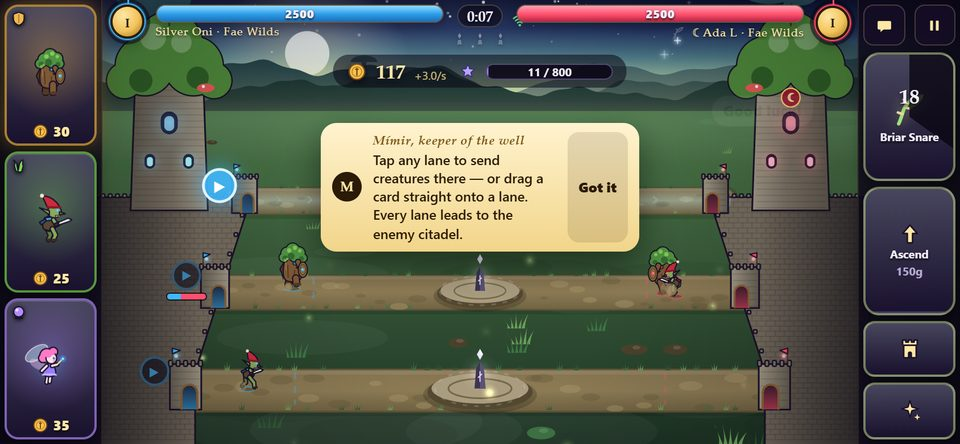
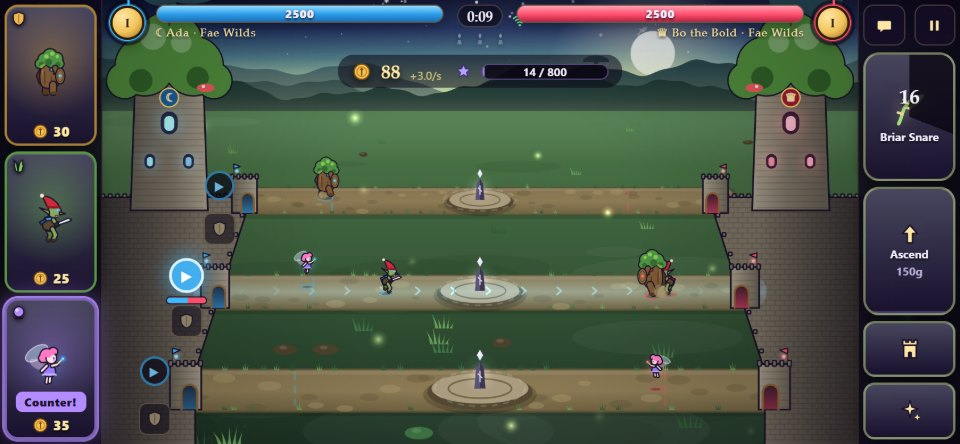
Backlog 187: README's online-battle phone picture re-shot (current HUD, both sigils, creatures; no tip over the field)

diff --git a/scripts/shoot.ts b/scripts/shoot.ts
@@ -44,8 +44,10 @@ const hostRoom = `(async () => { const a = window.__mythwar; a.openMultiplayer()
 const guestReady = { settings: { playerName: 'Bo the Bold', sigil: 3 }, script: `(() => { const m = window.__mythwar.mp; m.setTrials(['glass']); setTimeout(() => m.ready(true), 400); })()`, wait: 1200 };
 
 /** The guest just readies; the host readies after it (`afterGuest`): an online battle starts. */
-const guestBattle = { settings: { playerName: 'Bo the Bold', sigil: 3 }, script: `window.__mythwar.mp.ready(true)`, wait: 9000 };
-const hostReady = `setTimeout(() => window.__mythwar.mp.ready(true), 500)`;
+// (Both sides summon once the countdown is over: creatures meet in the middle by the shot.)
+const summon = (lanes: string) => `setTimeout(() => { const g = window.__mythwar.game; ${lanes}.forEach(([u, l]) => g.command({ type: 'train', team: g.playerTeam, unitId: u, lane: l })); }, 4500)`;
+const guestBattle = { settings: { playerName: 'Bo the Bold', sigil: 3, hints: false }, script: `(() => { window.__mythwar.mp.ready(true); ${summon("[['treant', 1], ['redcap', 1], ['pixie', 2]]")}; })()`, wait: 13000 };
+const hostReady = `(() => { setTimeout(() => window.__mythwar.mp.ready(true), 500); ${summon("[['redcap', 1], ['pixie', 1], ['treant', 0]]")}; })()`;
 
 const cast = (age: number, lane: number) =>
   `(() => { const a = window.__mythwar; const w = a.game.world; const p = w.players[0]; p.age = ${age}; p.powerCooldown = 0; a.game.command({ type: 'power', team: 0, lane: ${lane} }); })()`;

diff --git a/PROGRESS.md b/PROGRESS.md
@@ -825,6 +825,10 @@ it prints, inviting, stopping — 2026-10-13.)
 186. [x] Gamepad: the battle room (now with How to play, #161) had no D-pad reachability check (the
    results have one, #109). (Done: mpsmoke walks the room's 11 controls — mode and handicap chips,
    Leave room, How to play, Ready — all reachable.)
+187. [x] README's `docs/mp-phone.jpg` (run #7) showed an old HUD under Mímir's lanes tip. (Done:
+   `mobile-mp-battle` now has both players summon after the countdown; re-shot with tips off —
+   `shoot mobile-mp-battle --settings '{"hints":false,"playerName":"Ada","sigil":1}'` then
+   `docshot … docs/mp-phone.jpg 960`; caption fixed — it is the host's phone.)
 
 
 

diff --git a/README.md b/README.md
@@ -59,7 +59,7 @@ citadel and purse). Battles survive app switches, Wi-Fi blips and reloads; leavi
 take a handicap in the room (half a citadel, no god powers, no turrets) to give a friend a chance.
 Details, troubleshooting (firewall!) and how it works: [docs/MULTIPLAYER.md](docs/MULTIPLAYER.md).
 
-| Battle room: code + QR invite | The guest's phone: every player sees their own citadel on the left |
+| Battle room: code + QR invite | A phone in an online battle: every player sees their own citadel on the left, both sigils flying |
 |---|---|
 | ![Room](docs/mp-room.jpg) | ![Phone](docs/mp-phone.jpg) |
 
